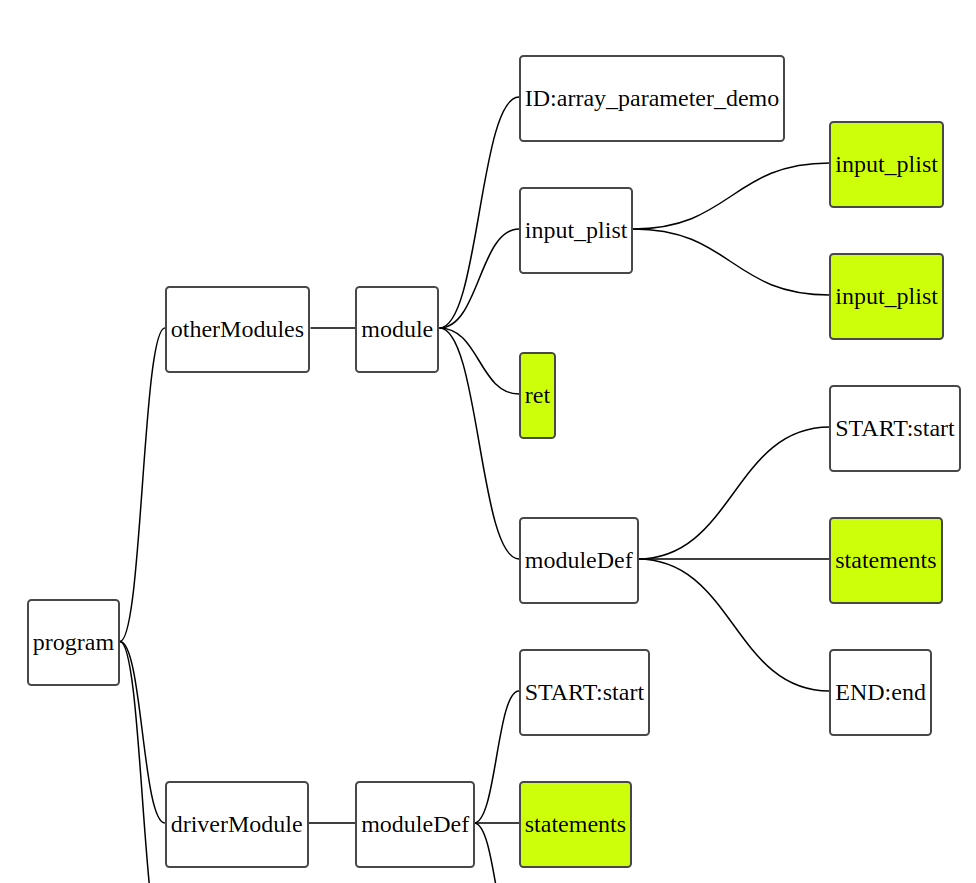
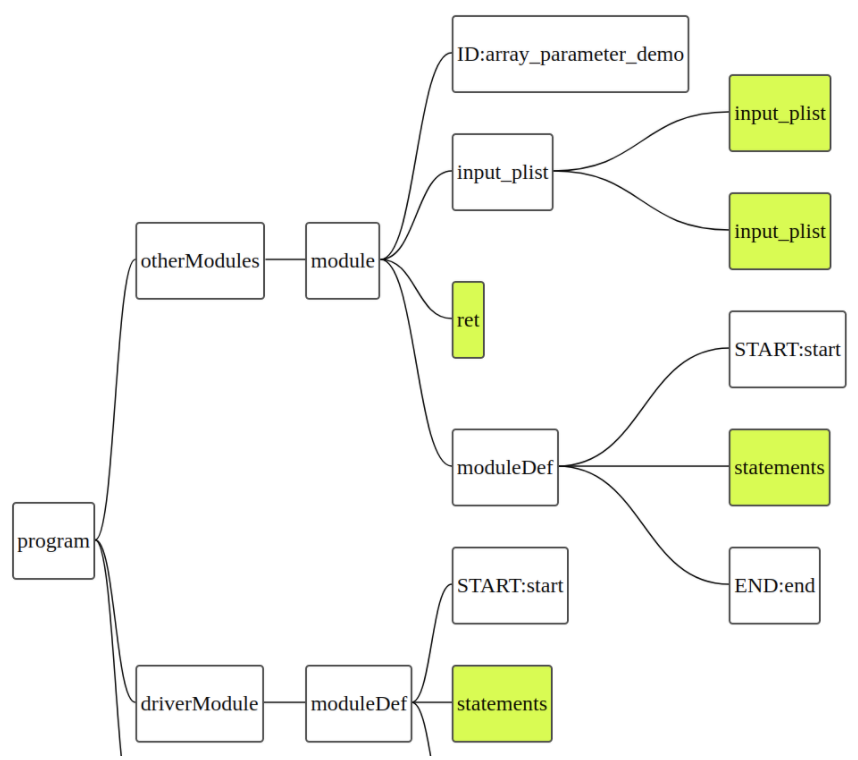
change visual

Changed region(s): [[0.0, 0.0303, 1.0, 1.0], [0.7273, 0.6658, 0.7879, 0.7566], [0.7273, 0.5447, 0.7576, 0.575]]

diff --git a/README.md b/README.md
@@ -34,7 +34,7 @@ $ nasm -felf64 code.asm && gcc -o exec code.o && ./exec
 * Satvik Golechha (<f20170117@pilani-bits-pilani.ac.in>)
 * Bharat Bhargava (<f20170025@pilani-bits-pilani.ac.in>)
 
-## Compilation
+## Compilation Steps
 
 The compilation is broken into the following steps. (see [Dragon Book](https://en.wikipedia.org/wiki/Compilers:_Principles,_Techniques,_and_Tools)):
 
@@ -47,7 +47,7 @@ The compilation is broken into the following steps. (see [Dragon Book](https://e
 
 Visualization for each of these steps is available. For instance, this is how a part of the Syntax Tree looks like:
 
-![ast](ast_visual.png)
+![ast](ast_visual2.png)
 
 # Features:
 
